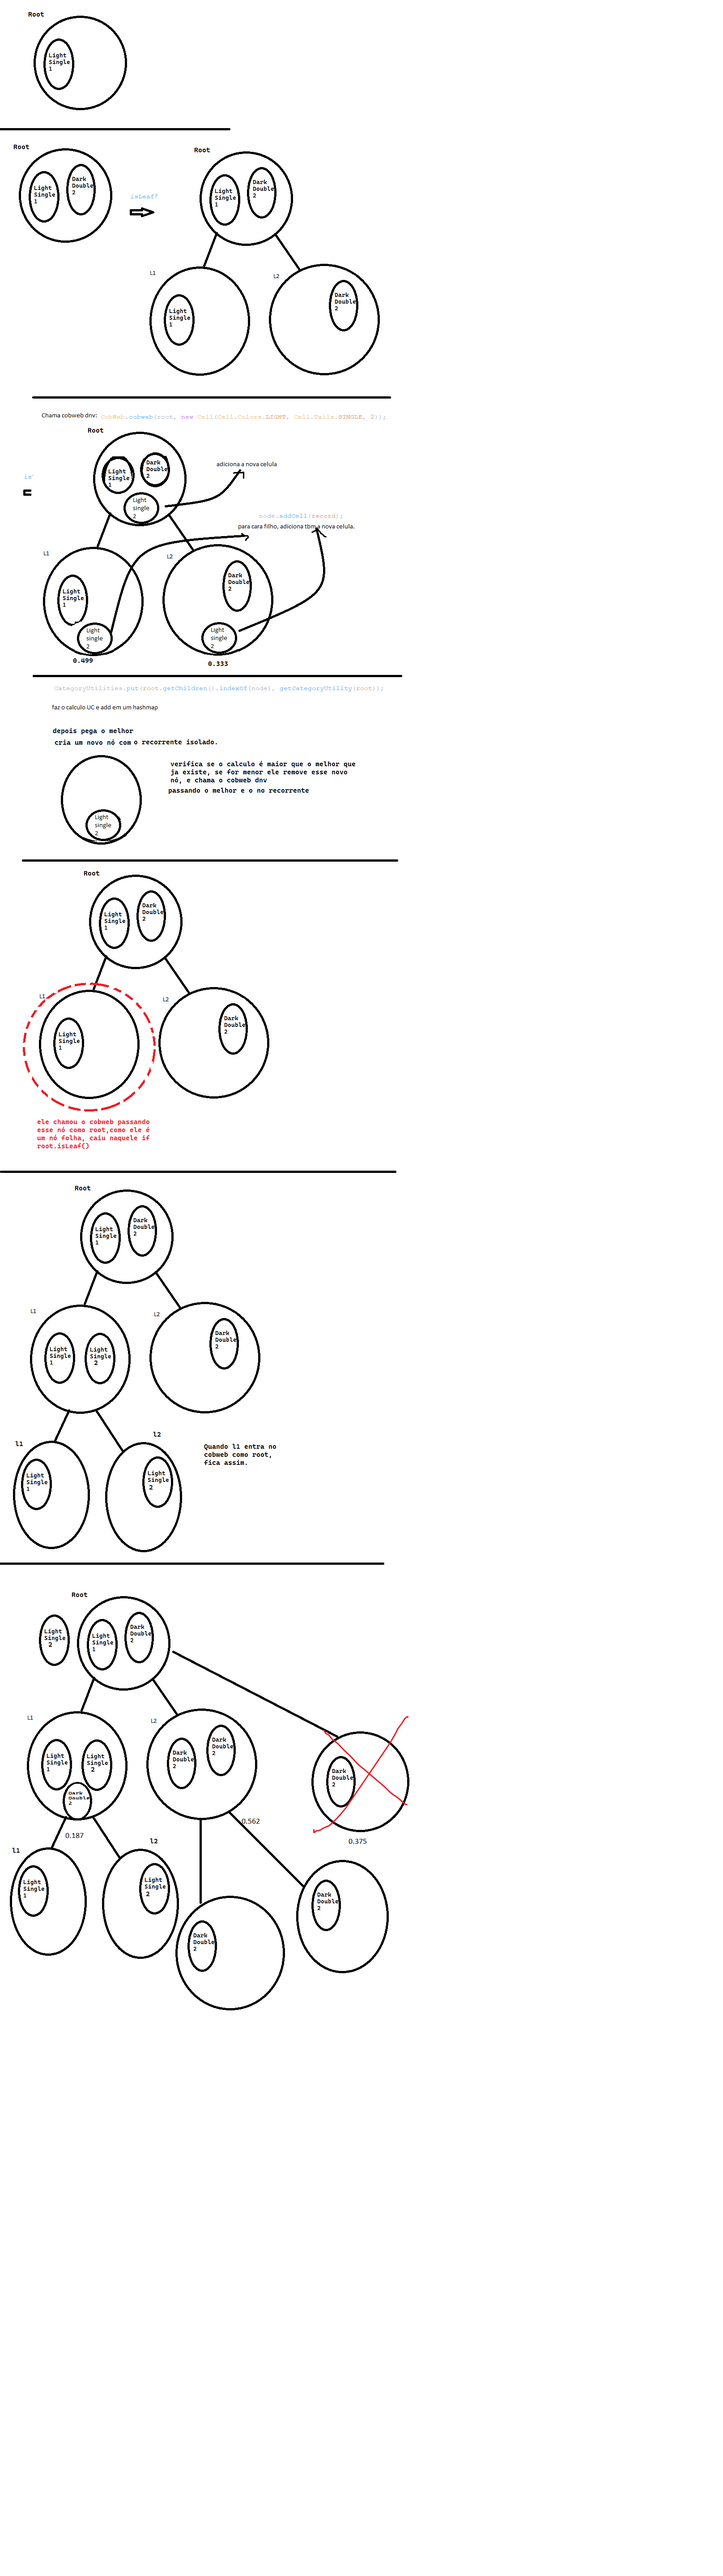
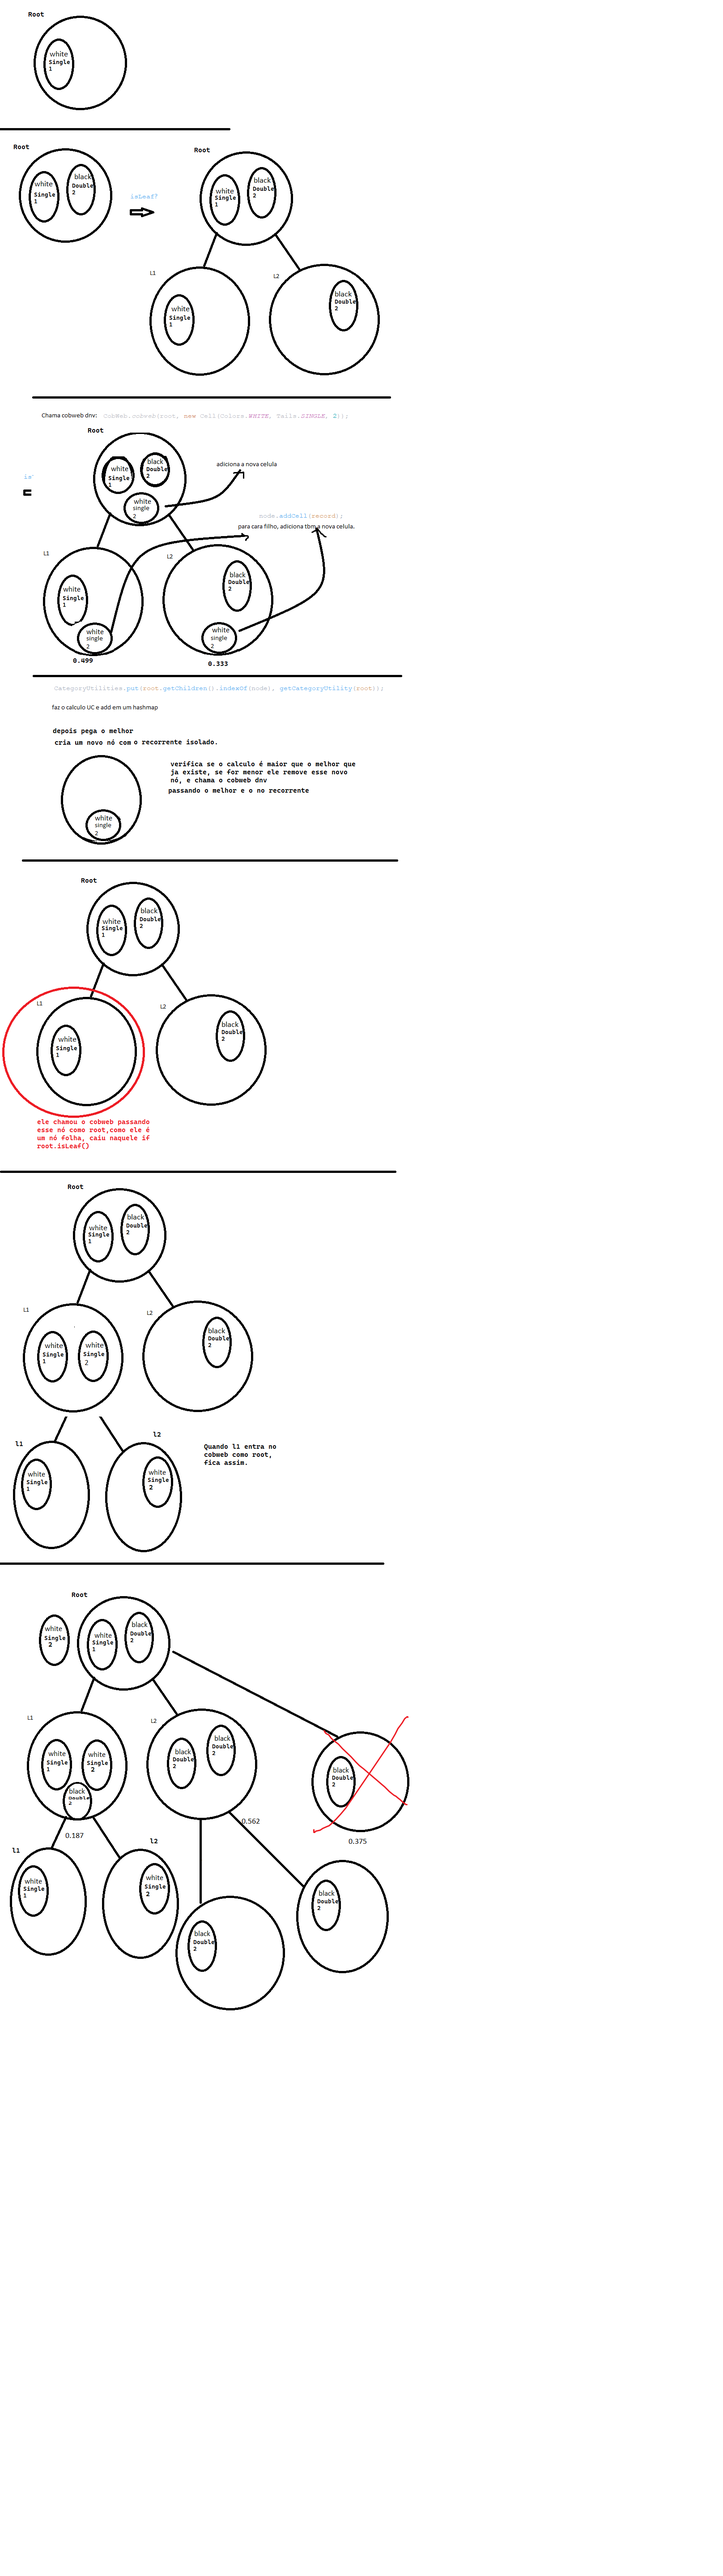
ajustes

diff --git a/src/main/java/com/ia/cobweb/CobWeb.java b/src/main/java/com/ia/cobweb/CobWeb.java
@@ -26,8 +26,6 @@ public class CobWeb {
                 node.getCells().removeIf(cell -> cell == record);
             }
 
-            //bestScore = geBestScore(CategoryUtilities, key);
-
             bestScore = CategoryUtilities.get(0);
             for (int k = 0; k < CategoryUtilities.size(); k++) {
                 if (bestScore < CategoryUtilities.get(k)) {
@@ -63,20 +61,22 @@ public class CobWeb {
 
     static Double nodeProbabilites(Node cluster) {
         Integer listSize = cluster.getCells().size();
-        return Math.pow(countLight(cluster) / listSize, 2) +
+        double result = Math.pow(countLight(cluster) / listSize, 2) +
                 Math.pow(countDark(cluster) / listSize, 2) +
                 Math.pow(countSingleTail(cluster) / listSize, 2) +
                 Math.pow(countDoubleTail(cluster) / listSize, 2) +
                 Math.pow(countOneCore(cluster) / listSize, 2) +
                 Math.pow(countMultiCore(cluster) / listSize, 2);
+
+        return result;
     }
 
     static Double countLight(Node cluster) {
-        return countCells(cluster, c -> c.getColor() == Colors.LIGHT);
+        return countCells(cluster, c -> c.getColor() == Colors.WHITE);
     }
 
     static Double countDark(Node cluster) {
-        return countCells(cluster, c -> c.getColor() == Colors.DARK);
+        return countCells(cluster, c -> c.getColor() == Colors.BLACK);
     }
 
     static Double countSingleTail(Node cluster) {

diff --git a/src/main/java/com/ia/cobweb/CobWebApplication.java b/src/main/java/com/ia/cobweb/CobWebApplication.java
@@ -9,10 +9,10 @@ public class CobWebApplication {
 		SpringApplication.run(CobWebApplication.class, args);
 
 		Node root = new Node();
-		root.addCell(new Cell(Colors.LIGHT, Tails.SINGLE, 1));
-		CobWeb.cobweb(root, new Cell(Colors.DARK, Tails.DOUBLE, 2));
-		CobWeb.cobweb(root, new Cell(Colors.LIGHT, Tails.SINGLE, 2));
-		//adicionando uma celular dark double
+		root.addCell(new Cell(Colors.WHITE, Tails.SINGLE, 1));
+		CobWeb.cobweb(root, new Cell(Colors.BLACK, Tails.DOUBLE, 2));
+		CobWeb.cobweb(root, new Cell(Colors.WHITE, Tails.SINGLE, 2));
+		//adicionando uma celular BLACK double
 		//CobWeb.cobweb(root, new Cell(Colors.DARK, Tails.DOUBLE, 2));
 
 		System.out.println("Arvore principal: " + root.toString());

diff --git a/src/main/java/com/ia/cobweb/Colors.java b/src/main/java/com/ia/cobweb/Colors.java
@@ -1,6 +1,6 @@
 package com.ia.cobweb;
 
 public enum Colors {
-    DARK, LIGHT;
+    BLACK, WHITE;
 }
 
